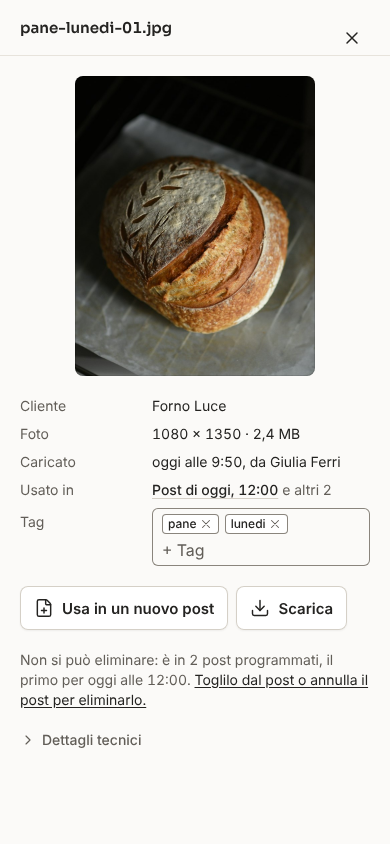
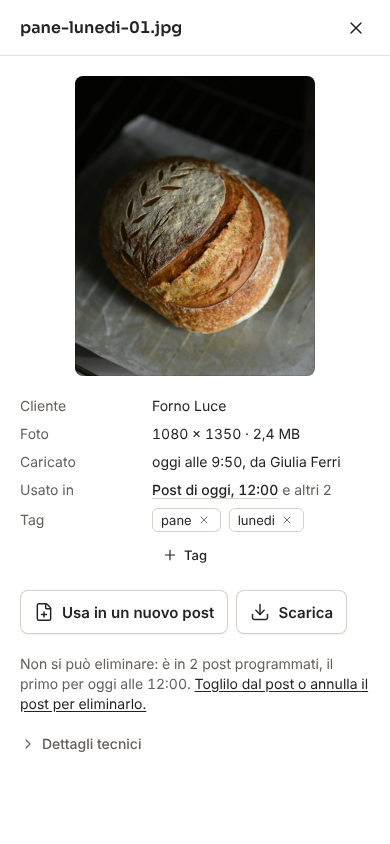
fix(media): tag del dettaglio come pillole con «+ Tag», pannello senza velo (schermata 20)

diff --git a/apps/web/app/components/TagChips.vue b/apps/web/app/components/TagChips.vue
@@ -1,0 +1,95 @@
+<script setup lang="ts">
+// Tags as chips with «+ Tag» (screen 20): the button opens a small field, Enter adds, Escape
+// closes. Each chip has its «×», shown on hover and keyboard focus (always on touch screens).
+const props = withDefaults(
+  defineProps<{ modelValue: string[]; readOnly?: boolean; max?: number; maxLength?: number }>(),
+  { readOnly: false, max: 20, maxLength: 40 },
+)
+const emit = defineEmits<{ 'update:modelValue': [tags: string[]] }>()
+const { t } = useI18n()
+const listId = useId()
+
+const adding = ref(false)
+const draft = ref('')
+const field = ref<HTMLInputElement | null>(null)
+const addButton = ref<{ $el: HTMLElement } | null>(null)
+
+async function open() {
+  adding.value = true
+  draft.value = ''
+  await nextTick()
+  field.value?.focus()
+}
+async function close() {
+  adding.value = false
+  draft.value = ''
+  await nextTick()
+  addButton.value?.$el.focus()
+}
+function add() {
+  const tag = draft.value.trim().slice(0, props.maxLength)
+  const known = props.modelValue.some((x) => x.toLowerCase() === tag.toLowerCase())
+  if (tag && !known && props.modelValue.length < props.max) {
+    emit('update:modelValue', [...props.modelValue, tag])
+  }
+  void close()
+}
+function remove(tag: string) {
+  emit(
+    'update:modelValue',
+    props.modelValue.filter((x) => x !== tag),
+  )
+}
+</script>
+
+<template>
+  <div class="flex flex-wrap items-center gap-2">
+    <span :id="listId" class="sr-only">{{ t('library.detail.tags') }}</span>
+    <ul v-if="modelValue.length > 0" :aria-labelledby="listId" class="contents">
+      <li
+        v-for="tag in modelValue"
+        :key="tag"
+        class="group inline-flex h-6 max-w-full items-center gap-1 rounded-[6px] border border-(--app-border-strong) bg-(--app-card) px-2 text-[0.8125rem]"
+      >
+        <span class="truncate">{{ tag }}</span>
+        <button
+          v-if="!readOnly"
+          type="button"
+          class="sr-only -mr-1 items-center justify-center rounded-[4px] text-(--app-text-muted) group-hover:not-sr-only group-hover:flex group-hover:size-4 hover:bg-(--app-nav-hover) hover:text-(--app-text) focus-visible:not-sr-only focus-visible:flex focus-visible:size-4 [@media(hover:none)]:not-sr-only [@media(hover:none)]:flex [@media(hover:none)]:size-4"
+          :aria-label="t('library.detail.removeTag', { tag })"
+          @click="remove(tag)"
+        >
+          <UIcon name="i-lucide-x" class="size-3" />
+        </button>
+      </li>
+    </ul>
+    <template v-if="!readOnly && modelValue.length < max">
+      <input
+        v-if="adding"
+        ref="field"
+        v-model="draft"
+        type="text"
+        :maxlength="maxLength"
+        :aria-label="t('library.detail.newTag')"
+        :placeholder="t('library.detail.newTag')"
+        class="h-7.5 w-36 rounded-control border border-(--app-border-strong) bg-(--app-card) px-2 text-[0.8125rem] outline-none focus-visible:ring-2 focus-visible:ring-(--app-focus)"
+        @keydown.enter.prevent="add"
+        @keydown.esc.stop.prevent="close"
+        @blur="draft.trim() ? add() : (adding = false)"
+      />
+      <UButton
+        v-else
+        ref="addButton"
+        color="neutral"
+        variant="ghost"
+        size="sm"
+        icon="i-lucide-plus"
+        :label="t('library.detail.addTag')"
+        :aria-label="t('library.detail.addTagLong')"
+        class="h-7.5 px-2.5 text-[0.8125rem] font-medium"
+        @click="open"
+      />
+    </template>
+    <span v-if="readOnly && modelValue.length === 0" class="text-(--app-text-muted)">—</span>
+  </div>
+</template>

diff --git a/apps/web/app/components/MediaDetail.vue b/apps/web/app/components/MediaDetail.vue
@@ -169,10 +169,12 @@ const folderValue = computed({
     v-model:open="open"
     :title="file?.originalName ?? $t('library.detail.title')"
     :description="$t('library.detail.title')"
+    :overlay="false"
     :ui="{
-      content: 'md:max-w-[25rem]',
-      header: 'min-h-14 py-0 pr-3 pl-5 border-b border-(--app-border)',
-      title: 'truncate font-display text-[0.9375rem] font-semibold',
+      content: 'md:max-w-[25rem] bg-(--app-surface)',
+      header: 'min-h-14 py-0 pr-12 pl-5 border-b border-(--app-border)',
+      title: 'truncate font-display text-base font-semibold',
+      close: 'top-7 end-3 -translate-y-1/2',
       description: 'sr-only',
       body: 'p-5 sm:p-5',
     }"
@@ -258,20 +260,9 @@ const folderValue = computed({
               />
             </dd>
           </template>
-          <dt class="pt-1 text-(--app-text-muted)">
-            <label for="media-tags">{{ $t('library.detail.tags') }}</label>
-          </dt>
+          <dt class="pt-0.5 text-(--app-text-muted)">{{ $t('library.detail.tags') }}</dt>
           <dd>
-            <UInputTags
-              id="media-tags"
-              v-model="tagList"
-              :disabled="readOnly"
-              :max-length="40"
-              :aria-label="$t('library.detail.tags')"
-              :placeholder="readOnly ? undefined : '+ Tag'"
-              class="w-full"
-              @update:model-value="saveTags"
-            />
+            <TagChips v-model="tagList" :read-only="readOnly" @update:model-value="saveTags" />
           </dd>
         </dl>
 

diff --git a/apps/web/tests/e2e/library.spec.ts b/apps/web/tests/e2e/library.spec.ts
@@ -187,10 +187,21 @@ test('the detail plays the video, saves the tags and deletes the file', async ({
     .poll(() => player.evaluate((v: HTMLVideoElement) => v.currentTime))
     .toBeGreaterThan(0)
 
-  const tags = detail.getByRole('textbox', { name: 'Tag' })
-  await tags.fill('Forno')
-  await tags.press('Enter')
+  // the tags as chips, «+ Tag» opens a small field (screen 20)
+  const chips = detail.getByRole('list', { name: 'Tag' })
+  await expect(chips.getByRole('listitem')).toHaveText(['natale'])
+  await detail.getByRole('button', { name: 'Aggiungi un tag' }).click()
+  const tag = detail.getByRole('textbox', { name: 'Nuovo tag' })
+  await tag.fill('Forno')
+  await tag.press('Enter')
   await expect(page.getByText('Tag salvati.')).toBeVisible()
+  await expect(chips.getByRole('listitem')).toHaveText(['natale', 'forno'])
+  await expect(tag).toHaveCount(0)
+  await expect(detail.getByRole('button', { name: 'Aggiungi un tag' })).toBeFocused()
+  // «×» shows on hover (and always on a touch screen)
+  await chips.getByRole('listitem').filter({ hasText: 'natale' }).hover()
+  await detail.getByRole('button', { name: 'Togli il tag «natale»' }).click()
+  await expect(chips.getByRole('listitem')).toHaveText(['forno'])
 
   const results = await axe(page)
   expect(results.violations).toEqual([])

diff --git a/docs/decisioni-aperte.md b/docs/decisioni-aperte.md
@@ -5,7 +5,7 @@ Un solo elenco delle scelte che aspettano Matteo, perché nessuna vada persa tra
 Per ogni voce: **origine** (il task o la revisione che l'ha sollevata), **opzioni**, **stato**.
 Stati: **aperta** (da decidere), **scelta provvisoria** (fatta una scelta prudente, Matteo può cambiarla), **decisa** (resta qui finché non è fatta; poi si toglie con la PR che la chiude).
 
-Ultimo aggiornamento: ridisegno, Task R6, libreria di tutti i clienti (20 novembre 2026): nuova D-92 (scelte provvisorie e differenze dalle schermate 19 e 20). Prima, ridisegno, Task R6, libreria, i due difetti della prova (19 novembre 2026): D-80 punti 4 e 7 fatti, chiusa D-85, nuova D-91 (scelte provvisorie dell'etichetta d'uso e del file che non si elimina). Prima, ridisegno, Task R5, editor, parte alta (19 novembre 2026): nuova D-90 (scelte provvisorie e differenze dalle schermate 08 e 09). Prima, ridisegno, Task R4, elenco dei clienti e «Nuovo cliente» (19 novembre 2026): nuova D-89 (scelte provvisorie e differenze dalle schermate 14 e 15). Prima, ridisegno, Task R3, pagina «Oggi» (19 novembre 2026): D-88 punto 8 (differenze dalle schermate 02 e 03). Prima, ridisegno, Task R3, letture di «Oggi» (19 novembre 2026): nuova D-88 (scelte provvisorie delle letture: «Clienti recenti», profili con un problema in «Da sistemare», momento del pannello). Prima, ridisegno, Task R1, componenti e strumenti di fedeltà (19 novembre 2026): D-86 con i punti 6 (tavola `00` in una pagina sua), 7 (Sora servita dal pannello), 8 (filtro a schede alto 36 sul telefono) e 9 (`h3` nel carattere di sistema). Prima, tela Pencil della nuova direzione (19 novembre 2026): D-81 con la tela fatta su `design/feedway-ui-v2.pen`; chiusa D-31: le tavole del pannello non si ridisegnano più sulla tela vecchia, che resta come archivio. Prima, ridisegno, Task R1, token e date (19 novembre 2026): nuova D-86 (scelte provvisorie delle fondamenta: nomi dei token, palette derivate, campi di data del browser fino ai task delle loro pagine). Prima, scelte di Matteo sul ridisegno (19 novembre 2026): D-83 decisa (a), rilascio 0.12.1; D-85 decisa (a), D-80 punti 4 e 7 nel Task R6 con la correzione alla radice. Prima, piano del ridisegno del pannello (19 novembre 2026): D-81 decisa (a) da Matteo, ridisegno prima della tappa 7, con il piano `docs/superpowers/plans/2026-11-19-ridisegno-pannello.md`; nuove D-83 (rilascio del ridisegno), D-84 (funzioni mostrate dalle schermate che non esistono, scelta provvisoria) e D-85 (due difetti della prova nel ridisegno). Prima, esiti della prova della 0.12.0 (19 novembre 2026): nuove D-80 (difetti della prova, nella tappa 7 senza una 0.12.1, scelta di Matteo), D-81 (nuova direzione di design, in un thread separato) e D-82 (prove rimaste, con quelle di D-66, che si chiude: la pulizia dei file «Non riuscito» è verificata). Prima, correzioni della revisione finale della tappa 6 e rilascio 0.12.0 (Task 8, 18 novembre 2026), con le scelte di Matteo: chiuse D-56 e D-57 (fatte), D-69 (decisa (a), come ora), D-70 (decisa (d): archiviare un cliente riporta in bozza i suoi post programmati, fatto) e D-76 (scheda e lunghezza come ora; voci di audit per etichette, modelli e gruppi, fatte; nessuna per le note); D-68 decisa (a) per ora; D-75 con le guide di Photoshop di Matteo (storie allineate); D-18 e D-67 riscritte corte; nuove D-77 (programmati rimasti indietro, tappa 7), D-78 (fuso per chi non è Owner o Admin) e D-79 (peso e ordine dell'elenco dei post). Prima, etichette, modelli, gruppi e note nel pannello (tappa 6, Task 7, 18 novembre 2026): D-68 dice come il pannello disegna i colori; nuova D-76 (scheda solo per chi gestisce, lunghezza dei modelli, audit), provvisoria. Prima, etichette, modelli, gruppi e note lato server (tappa 6, Task 7, 18 novembre 2026): D-68 dice cosa fanno le rotte e che la tavola E8 mostra colori diversi dai temi. Prima, anteprima, copertina e ritaglio (tappa 6, Task 6, 18 novembre 2026): D-60 copertina fatta e D-61 fatta nell'editor (restano le parti della tappa 7); nuova D-75 (misure approssimate dell'anteprima, non verificate). Prima, decisioni di Matteo sull'editor (18 novembre 2026): chiuse D-71 (il tipo si salva con la bozza: riaperta con dei file lo ritrova com'era, senza file si sceglie di nuovo) e D-72 (il Viewer vede l'elenco dei post senza miniature, con l'icona del tipo). Prima, editor dei post (tappa 6, Task 5, 18 novembre 2026): nuova D-74 (email a chi ha programmato un post con un file che non esce, richiesta di Matteo); D-58: nell'editor il fuso di Roma non si mostra (Matteo); D-57 (1) e (2) fatti, D-60 tipo e storia fatti (resta la copertina), D-71 e D-72 con una scelta provvisoria da confermare. Prima, file che non esce (tappa 6, Task 5, 18 novembre 2026): D-56 decisa da Matteo, un file che nessun account pubblica blocca il post. Prima, caricamenti in tutto il pannello (tappa 6, Task 5, 18 novembre 2026): chiusa D-21 con (b), scelta di Matteo: i caricamenti continuano cambiando pagina, con un riquadro in basso a destra come su Drive. Prima, disegno dell'editor (tappa 6, Task 2, 18 novembre 2026): D-73 (cinque domande sul disegno dell'editor, numerata D-68 sul ramo del disegno) aperta e chiusa lo stesso giorno, con l'approvazione di Matteo del disegno (le scelte sono in `DESIGN.md` «Editor dei post»); D-31 aggiornata, le variabili di D-63 sono sulla tela. Prima, Task 4 della tappa 6, casi d'uso e API dei post (18 novembre 2026): D-54 usata dal salvataggio (resta il worker della tappa 7), D-18 fatta lato server (`usedIn`, 409 sul file o sulla cartella con un file di un post programmato), D-49 (a) applicata anche al salvataggio (l'ora saltata si salva un'ora avanti), nuove D-70 (post di un cliente archiviato), D-71 (tipo della bozza alla nascita) e D-72 (miniature dei post per il Viewer). Prima, Task 4 della tappa 6, regole del salvataggio (18 novembre 2026): D-54 fatta in `checkPost` (resta l'uso nel salvataggio e nel worker), D-56 (a) fatta e ancora provvisoria, D-57 punto 3 fatto, D-58 regole e testi fatti, D-61 regole fatte. Prima, Task 3 della tappa 6, dati dei post (18 novembre 2026): D-58 lettura e scrittura del fuso fatte; nuove D-68 (colori delle etichette) e D-69 (finestra delle 24 ore dei limiti), provvisorie. Prima, Task 1 della tappa 6, ritocchi di tutto il pannello (18 novembre 2026): chiusa D-63 (regole in `DESIGN.md` → «Struttura delle pagine»), da riportare sulla tela con il disegno dell'editor (D-31). Prima, tela unica (18 novembre 2026): D-31 aggiornata, la tela è un solo file (`design/feedway-ui.pen`) allineato al codice della 0.11.0 con Libreria, caricamento, dettaglio del file, temi colore e logo; resta solo riportarci le regole nuove di D-63. Nuova D-67 (cosa fare delle bozze hub). Prima, piano della tappa 6 (`docs/superpowers/plans/2026-10-15-06-post.md`) (18 novembre 2026): D-54, D-57, D-60 e D-61 scritte nel piano; scelte provvisorie (a) per D-56 e D-58, da confermare con il piano; D-18, D-21, D-31 e D-63 assegnate ai task. Prima, esiti della prova della 0.11.0 (18 novembre 2026): chiusa D-39 (IMG_0233.mov 4K60 pronto in 499 s, pannello fluido); nuove D-61 (ritaglio spostabile, scelta di Matteo), D-62 (foto 3:4 nel feed), D-63 (ritocchi di design di tutto il pannello), D-64 (caricamento: altro dispositivo, peso della copia, conferma doppia), D-65 (tetto CPU del web e profilo sRGB incorporato) e D-66 (prove rimaste). Prima, Task 3 della tappa 5, correzioni della revisione finale (17 novembre 2026): confermate da Matteo D-46…D-50, D-52 e D-53; nuove D-54 (riuso di `checkPost`, punto 3 fatto), D-55 (video nei caroselli, tappa 7), D-56 (file non pubblicati), D-57 (limite per persona e ritardo nell'editor, tappa 6), D-58 (fuso), D-59 (file ripetuto) e D-60 (editor della tappa 6: tipo, storia, copertina). Prima, Task 2 della tappa 5, `checkPost`, la rotta `post-checks` e i messaggi (17 novembre 2026): nuova D-53 (testo vuoto per una piattaforma), decisa seguendo la specifica §13; D-51 applicata nel contratto (fino a 20 file). Prima, Task 1 della tappa 5, il motore delle regole (17 novembre 2026): nuove D-51 (limiti di Meta dove la documentazione non concorda con la specifica, decisa da Matteo: carosello a 10, prima Instagram) e D-52 (opzioni degli avvisi senza «annulla»); aggiornate D-46, D-48 e D-50 con quello che il codice fa. Prima, decisione di Matteo su D-44 (17 novembre 2026): chiusa, `avatar_url` resta com'è (dato interno, non esce dal server, serve a capire se la foto è cambiata). Prima, piano della tappa 5 (17 novembre 2026): nuove D-46…D-50 (conteggio della caption, limite della caption di Facebook, foto del post multi-foto di Facebook, ora legale, doppioni). Prima, correzioni media dopo la prova della 0.10.0 (17 novembre 2026): chiuse D-03 (le HEIC in Display P3 si convertono in sRGB), D-41 (un pezzo fermo riparte dopo 30 s e al cambio di rete; `ECONNRESET` come avviso), D-42 (avviso del file doppio con l'impronta sha256) e D-43 (i file «Non riuscito» si cancellano dopo 24 ore); aggiornata D-39 (timeout da pixel al secondo, preset più veloce, consiglio nel pannello, worker a 1,5 CPU, «Riprova»); D-44 con una proposta. Prima, ritocchi del pannello dopo la prova della 0.10.0 (17 novembre 2026): chiuse D-25 (rosso degli errori cremisi freddo, lontano da ogni accento) e D-45 (libreria a griglia o elenco con miniature regolabili, conferme che spariscono dopo 5 s, schede del cliente senza barra verticale, pagina accanto alla barra laterale, «Non riuscito» in rosso nella Panoramica). Prima, copia per le Reels dentro i limiti di Meta (17 novembre 2026): D-40 fatta, restano le verifiche con Meta vera alla tappa 7. Prima, esiti della prova della 0.10.0 sulla VPS (17 novembre 2026, esiti nelle consegne della tappa 4, punti R-n ed E-n): decise D-03 (conversione in sRGB) e D-25 (rosso più freddo); aggiornate D-27, D-29, D-30, D-34; nuove D-39…D-45. Prima, correzioni della revisione retroattiva delle tappe 1–3 (17 novembre 2026): nuove D-35 (rotazione della chiave di cifratura e del segreto di Better Auth, tappa 11), D-36 (versione Graph predefinita), D-37 (conservazione dei contatori) e D-38 (rafforzamenti rimandati alla tappa 11). Prima, revisione UI della tappa 4 (16 novembre 2026): D-31 aggiornata, la revisione è fatta (`design/reviews/2026-11-16-revisione-ui-tappa-4.md`) e resta solo la tela. Prima, rilascio della 0.10.0 (Task 14, 16 novembre 2026): chiuse D-13 (il segnaposto `secrets/ts_public_authkey` è nella guida della prova e, dalla 0.10.0, in `update.sh`) e D-14 (guida completa della prova scritta). Prima, nelle correzioni della revisione finale della tappa 4 (16 novembre 2026): nuove D-27 (caricamento), D-29 e D-30, voci rimandate D-31…D-34; aggiornate D-02 (riavvio del worker) e D-08 (limite di letture dell'host pubblico, con la PR dei video); chiusa D-26 (copia `master` delle foto fino a 4096 px, senza GPS, scelta B di Matteo). Prima, nel Task 13b (16 novembre 2026): chiusa D-17 (l'hover del pulsante principale ha ora un colore suo, `brand-hover`, con 4,5:1 in ogni tema); nuove D-22, D-23, D-24 e D-25. Prima, nel Task 13 (16 novembre 2026): nuove D-19, D-20 e D-21. Prima, nel Task 12 (16 novembre 2026). Chiuse nel Task 12 su indicazione di Matteo: D-05 (una cartella piena si elimina con tutto il contenuto, dopo la conferma), D-06 (la scheda «Libreria» resta dentro la pagina del cliente), D-07 («Libreria» ovunque, anche nel menu e nell'indirizzo).
+Ultimo aggiornamento: ridisegno, Task R6, tag del dettaglio del file (20 novembre 2026): D-92 punto 13. Prima, ridisegno, Task R6, libreria di tutti i clienti (20 novembre 2026): nuova D-92 (scelte provvisorie e differenze dalle schermate 19 e 20). Prima, ridisegno, Task R6, libreria, i due difetti della prova (19 novembre 2026): D-80 punti 4 e 7 fatti, chiusa D-85, nuova D-91 (scelte provvisorie dell'etichetta d'uso e del file che non si elimina). Prima, ridisegno, Task R5, editor, parte alta (19 novembre 2026): nuova D-90 (scelte provvisorie e differenze dalle schermate 08 e 09). Prima, ridisegno, Task R4, elenco dei clienti e «Nuovo cliente» (19 novembre 2026): nuova D-89 (scelte provvisorie e differenze dalle schermate 14 e 15). Prima, ridisegno, Task R3, pagina «Oggi» (19 novembre 2026): D-88 punto 8 (differenze dalle schermate 02 e 03). Prima, ridisegno, Task R3, letture di «Oggi» (19 novembre 2026): nuova D-88 (scelte provvisorie delle letture: «Clienti recenti», profili con un problema in «Da sistemare», momento del pannello). Prima, ridisegno, Task R1, componenti e strumenti di fedeltà (19 novembre 2026): D-86 con i punti 6 (tavola `00` in una pagina sua), 7 (Sora servita dal pannello), 8 (filtro a schede alto 36 sul telefono) e 9 (`h3` nel carattere di sistema). Prima, tela Pencil della nuova direzione (19 novembre 2026): D-81 con la tela fatta su `design/feedway-ui-v2.pen`; chiusa D-31: le tavole del pannello non si ridisegnano più sulla tela vecchia, che resta come archivio. Prima, ridisegno, Task R1, token e date (19 novembre 2026): nuova D-86 (scelte provvisorie delle fondamenta: nomi dei token, palette derivate, campi di data del browser fino ai task delle loro pagine). Prima, scelte di Matteo sul ridisegno (19 novembre 2026): D-83 decisa (a), rilascio 0.12.1; D-85 decisa (a), D-80 punti 4 e 7 nel Task R6 con la correzione alla radice. Prima, piano del ridisegno del pannello (19 novembre 2026): D-81 decisa (a) da Matteo, ridisegno prima della tappa 7, con il piano `docs/superpowers/plans/2026-11-19-ridisegno-pannello.md`; nuove D-83 (rilascio del ridisegno), D-84 (funzioni mostrate dalle schermate che non esistono, scelta provvisoria) e D-85 (due difetti della prova nel ridisegno). Prima, esiti della prova della 0.12.0 (19 novembre 2026): nuove D-80 (difetti della prova, nella tappa 7 senza una 0.12.1, scelta di Matteo), D-81 (nuova direzione di design, in un thread separato) e D-82 (prove rimaste, con quelle di D-66, che si chiude: la pulizia dei file «Non riuscito» è verificata). Prima, correzioni della revisione finale della tappa 6 e rilascio 0.12.0 (Task 8, 18 novembre 2026), con le scelte di Matteo: chiuse D-56 e D-57 (fatte), D-69 (decisa (a), come ora), D-70 (decisa (d): archiviare un cliente riporta in bozza i suoi post programmati, fatto) e D-76 (scheda e lunghezza come ora; voci di audit per etichette, modelli e gruppi, fatte; nessuna per le note); D-68 decisa (a) per ora; D-75 con le guide di Photoshop di Matteo (storie allineate); D-18 e D-67 riscritte corte; nuove D-77 (programmati rimasti indietro, tappa 7), D-78 (fuso per chi non è Owner o Admin) e D-79 (peso e ordine dell'elenco dei post). Prima, etichette, modelli, gruppi e note nel pannello (tappa 6, Task 7, 18 novembre 2026): D-68 dice come il pannello disegna i colori; nuova D-76 (scheda solo per chi gestisce, lunghezza dei modelli, audit), provvisoria. Prima, etichette, modelli, gruppi e note lato server (tappa 6, Task 7, 18 novembre 2026): D-68 dice cosa fanno le rotte e che la tavola E8 mostra colori diversi dai temi. Prima, anteprima, copertina e ritaglio (tappa 6, Task 6, 18 novembre 2026): D-60 copertina fatta e D-61 fatta nell'editor (restano le parti della tappa 7); nuova D-75 (misure approssimate dell'anteprima, non verificate). Prima, decisioni di Matteo sull'editor (18 novembre 2026): chiuse D-71 (il tipo si salva con la bozza: riaperta con dei file lo ritrova com'era, senza file si sceglie di nuovo) e D-72 (il Viewer vede l'elenco dei post senza miniature, con l'icona del tipo). Prima, editor dei post (tappa 6, Task 5, 18 novembre 2026): nuova D-74 (email a chi ha programmato un post con un file che non esce, richiesta di Matteo); D-58: nell'editor il fuso di Roma non si mostra (Matteo); D-57 (1) e (2) fatti, D-60 tipo e storia fatti (resta la copertina), D-71 e D-72 con una scelta provvisoria da confermare. Prima, file che non esce (tappa 6, Task 5, 18 novembre 2026): D-56 decisa da Matteo, un file che nessun account pubblica blocca il post. Prima, caricamenti in tutto il pannello (tappa 6, Task 5, 18 novembre 2026): chiusa D-21 con (b), scelta di Matteo: i caricamenti continuano cambiando pagina, con un riquadro in basso a destra come su Drive. Prima, disegno dell'editor (tappa 6, Task 2, 18 novembre 2026): D-73 (cinque domande sul disegno dell'editor, numerata D-68 sul ramo del disegno) aperta e chiusa lo stesso giorno, con l'approvazione di Matteo del disegno (le scelte sono in `DESIGN.md` «Editor dei post»); D-31 aggiornata, le variabili di D-63 sono sulla tela. Prima, Task 4 della tappa 6, casi d'uso e API dei post (18 novembre 2026): D-54 usata dal salvataggio (resta il worker della tappa 7), D-18 fatta lato server (`usedIn`, 409 sul file o sulla cartella con un file di un post programmato), D-49 (a) applicata anche al salvataggio (l'ora saltata si salva un'ora avanti), nuove D-70 (post di un cliente archiviato), D-71 (tipo della bozza alla nascita) e D-72 (miniature dei post per il Viewer). Prima, Task 4 della tappa 6, regole del salvataggio (18 novembre 2026): D-54 fatta in `checkPost` (resta l'uso nel salvataggio e nel worker), D-56 (a) fatta e ancora provvisoria, D-57 punto 3 fatto, D-58 regole e testi fatti, D-61 regole fatte. Prima, Task 3 della tappa 6, dati dei post (18 novembre 2026): D-58 lettura e scrittura del fuso fatte; nuove D-68 (colori delle etichette) e D-69 (finestra delle 24 ore dei limiti), provvisorie. Prima, Task 1 della tappa 6, ritocchi di tutto il pannello (18 novembre 2026): chiusa D-63 (regole in `DESIGN.md` → «Struttura delle pagine»), da riportare sulla tela con il disegno dell'editor (D-31). Prima, tela unica (18 novembre 2026): D-31 aggiornata, la tela è un solo file (`design/feedway-ui.pen`) allineato al codice della 0.11.0 con Libreria, caricamento, dettaglio del file, temi colore e logo; resta solo riportarci le regole nuove di D-63. Nuova D-67 (cosa fare delle bozze hub). Prima, piano della tappa 6 (`docs/superpowers/plans/2026-10-15-06-post.md`) (18 novembre 2026): D-54, D-57, D-60 e D-61 scritte nel piano; scelte provvisorie (a) per D-56 e D-58, da confermare con il piano; D-18, D-21, D-31 e D-63 assegnate ai task. Prima, esiti della prova della 0.11.0 (18 novembre 2026): chiusa D-39 (IMG_0233.mov 4K60 pronto in 499 s, pannello fluido); nuove D-61 (ritaglio spostabile, scelta di Matteo), D-62 (foto 3:4 nel feed), D-63 (ritocchi di design di tutto il pannello), D-64 (caricamento: altro dispositivo, peso della copia, conferma doppia), D-65 (tetto CPU del web e profilo sRGB incorporato) e D-66 (prove rimaste). Prima, Task 3 della tappa 5, correzioni della revisione finale (17 novembre 2026): confermate da Matteo D-46…D-50, D-52 e D-53; nuove D-54 (riuso di `checkPost`, punto 3 fatto), D-55 (video nei caroselli, tappa 7), D-56 (file non pubblicati), D-57 (limite per persona e ritardo nell'editor, tappa 6), D-58 (fuso), D-59 (file ripetuto) e D-60 (editor della tappa 6: tipo, storia, copertina). Prima, Task 2 della tappa 5, `checkPost`, la rotta `post-checks` e i messaggi (17 novembre 2026): nuova D-53 (testo vuoto per una piattaforma), decisa seguendo la specifica §13; D-51 applicata nel contratto (fino a 20 file). Prima, Task 1 della tappa 5, il motore delle regole (17 novembre 2026): nuove D-51 (limiti di Meta dove la documentazione non concorda con la specifica, decisa da Matteo: carosello a 10, prima Instagram) e D-52 (opzioni degli avvisi senza «annulla»); aggiornate D-46, D-48 e D-50 con quello che il codice fa. Prima, decisione di Matteo su D-44 (17 novembre 2026): chiusa, `avatar_url` resta com'è (dato interno, non esce dal server, serve a capire se la foto è cambiata). Prima, piano della tappa 5 (17 novembre 2026): nuove D-46…D-50 (conteggio della caption, limite della caption di Facebook, foto del post multi-foto di Facebook, ora legale, doppioni). Prima, correzioni media dopo la prova della 0.10.0 (17 novembre 2026): chiuse D-03 (le HEIC in Display P3 si convertono in sRGB), D-41 (un pezzo fermo riparte dopo 30 s e al cambio di rete; `ECONNRESET` come avviso), D-42 (avviso del file doppio con l'impronta sha256) e D-43 (i file «Non riuscito» si cancellano dopo 24 ore); aggiornata D-39 (timeout da pixel al secondo, preset più veloce, consiglio nel pannello, worker a 1,5 CPU, «Riprova»); D-44 con una proposta. Prima, ritocchi del pannello dopo la prova della 0.10.0 (17 novembre 2026): chiuse D-25 (rosso degli errori cremisi freddo, lontano da ogni accento) e D-45 (libreria a griglia o elenco con miniature regolabili, conferme che spariscono dopo 5 s, schede del cliente senza barra verticale, pagina accanto alla barra laterale, «Non riuscito» in rosso nella Panoramica). Prima, copia per le Reels dentro i limiti di Meta (17 novembre 2026): D-40 fatta, restano le verifiche con Meta vera alla tappa 7. Prima, esiti della prova della 0.10.0 sulla VPS (17 novembre 2026, esiti nelle consegne della tappa 4, punti R-n ed E-n): decise D-03 (conversione in sRGB) e D-25 (rosso più freddo); aggiornate D-27, D-29, D-30, D-34; nuove D-39…D-45. Prima, correzioni della revisione retroattiva delle tappe 1–3 (17 novembre 2026): nuove D-35 (rotazione della chiave di cifratura e del segreto di Better Auth, tappa 11), D-36 (versione Graph predefinita), D-37 (conservazione dei contatori) e D-38 (rafforzamenti rimandati alla tappa 11). Prima, revisione UI della tappa 4 (16 novembre 2026): D-31 aggiornata, la revisione è fatta (`design/reviews/2026-11-16-revisione-ui-tappa-4.md`) e resta solo la tela. Prima, rilascio della 0.10.0 (Task 14, 16 novembre 2026): chiuse D-13 (il segnaposto `secrets/ts_public_authkey` è nella guida della prova e, dalla 0.10.0, in `update.sh`) e D-14 (guida completa della prova scritta). Prima, nelle correzioni della revisione finale della tappa 4 (16 novembre 2026): nuove D-27 (caricamento), D-29 e D-30, voci rimandate D-31…D-34; aggiornate D-02 (riavvio del worker) e D-08 (limite di letture dell'host pubblico, con la PR dei video); chiusa D-26 (copia `master` delle foto fino a 4096 px, senza GPS, scelta B di Matteo). Prima, nel Task 13b (16 novembre 2026): chiusa D-17 (l'hover del pulsante principale ha ora un colore suo, `brand-hover`, con 4,5:1 in ogni tema); nuove D-22, D-23, D-24 e D-25. Prima, nel Task 13 (16 novembre 2026): nuove D-19, D-20 e D-21. Prima, nel Task 12 (16 novembre 2026). Chiuse nel Task 12 su indicazione di Matteo: D-05 (una cartella piena si elimina con tutto il contenuto, dopo la conferma), D-06 (la scheda «Libreria» resta dentro la pagina del cliente), D-07 («Libreria» ovunque, anche nel menu e nell'indirizzo).
 
 ## Media e caricamento
 
@@ -581,5 +581,6 @@ Esiti della prova del 19 novembre 2026 sulla VPS (nelle consegne della tappa 6, 
   10. Codec, fotogrammi, correzioni e avvisi sono in «Dettagli tecnici», chiuso.
   11. Gruppi per giorno: Oggi, Ieri, Questa settimana, poi per mese.
   12. Sul telefono, come la schermata, non ci sono i filtri «Cliente» e «Nei post» né la scelta griglia/elenco: il cliente si sceglie dal selettore in alto.
-- **Differenze dalla schermata:** «Pubblicato il 17/11» non c'è (tappa 7); la schermata `20` del codice apre una foto di un post programmato, perché nel campione il video non è in un post; i conteggi sono quelli del campione; i tag del dettaglio stanno nel campo dei tag (si tolgono con la ×) invece che in pillole con «+ Tag» sotto.
+  13. Tag del dettaglio come la `20` (richiesta di Matteo, 20/11): pillole, «+ Tag» apre un campo piccolo (Invio aggiunge, Esc chiude); la × di ogni pillola compare al passaggio e con la tastiera, sempre sui telefoni. Il pannello del dettaglio non vela la pagina, come la schermata.
+- **Differenze dalla schermata:** «Pubblicato il 17/11» non c'è (tappa 7); la schermata `20` del codice apre una foto di un post programmato, perché nel campione il video non è in un post; i conteggi sono quelli del campione.
 - **Stato:** provvisorie; Matteo può cambiarle.
